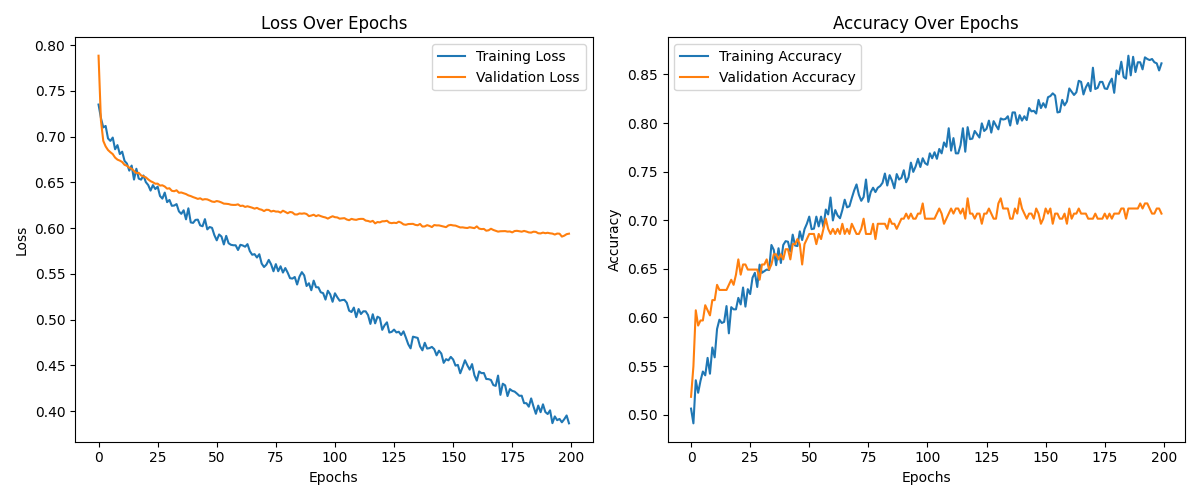
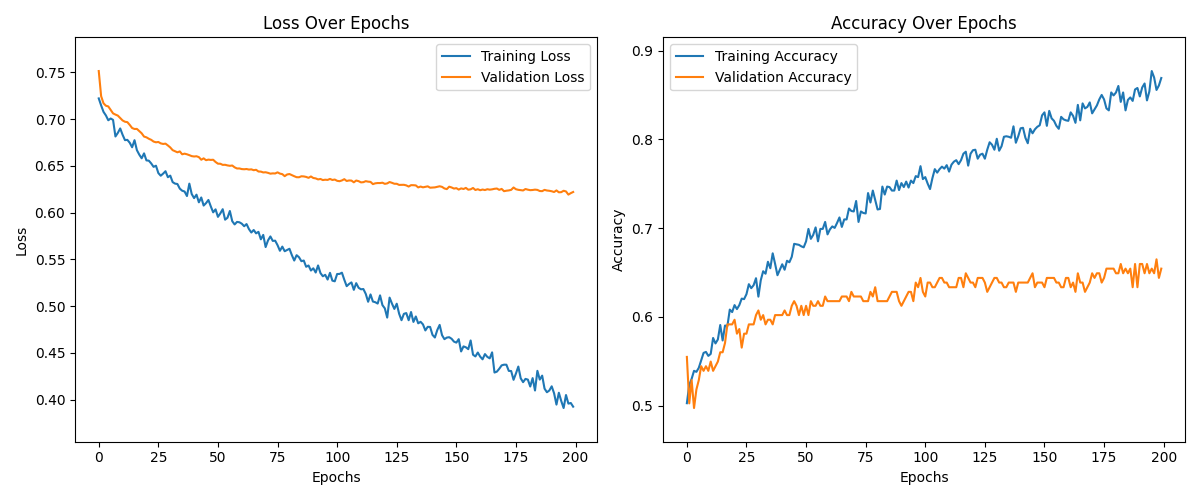
Fix evaluation and augmentation

diff --git a/training/classification_training.py b/training/classification_training.py
@@ -22,20 +22,20 @@ if gpus:
 
 # Hyperparameter configurations
 hyperparams = [
-    {"BACKBONE": "resnet50", "SEGMENT_BACKBONE": "no", "LEARNING_RATE": 0.00001, "OPTIMIZER": "SGD"},
-    {"BACKBONE": "resnet50", "SEGMENT_BACKBONE": "vgg19", "LEARNING_RATE": 0.00001, "OPTIMIZER": "SGD"},
-
-    # {"BACKBONE": "inceptionv3", "SEGMENT_BACKBONE": "no", "LEARNING_RATE": 0.00001, "OPTIMIZER": "SGD"},
-    # {"BACKBONE": "inceptionv3", "SEGMENT_BACKBONE": "vgg19", "LEARNING_RATE": 0.00001, "OPTIMIZER": "SGD"},
+    # {"BACKBONE": "resnet50", "SEGMENT_BACKBONE": "no", "LEARNING_RATE": 0.00002, "OPTIMIZER": "SGD"},
+    # {"BACKBONE": "resnet50", "SEGMENT_BACKBONE": "vgg19", "LEARNING_RATE": 0.00002, "OPTIMIZER": "SGD"},
     #
-    # {"BACKBONE": "mobilenetv2", "SEGMENT_BACKBONE": "no", "LEARNING_RATE": 0.00001, "OPTIMIZER": "SGD"},
-    # {"BACKBONE": "mobilenetv2", "SEGMENT_BACKBONE": "vgg19", "LEARNING_RATE": 0.00001, "OPTIMIZER": "SGD"},
-    #
-    # {"BACKBONE": "densenet121", "SEGMENT_BACKBONE": "no", "LEARNING_RATE": 0.00001, "OPTIMIZER": "SGD"},
-    # {"BACKBONE": "densenet121", "SEGMENT_BACKBONE": "vgg19", "LEARNING_RATE": 0.00001, "OPTIMIZER": "SGD"},
+    # {"BACKBONE": "inceptionv3", "SEGMENT_BACKBONE": "no", "LEARNING_RATE": 0.00002, "OPTIMIZER": "SGD"},
+    # {"BACKBONE": "inceptionv3", "SEGMENT_BACKBONE": "vgg19", "LEARNING_RATE": 0.00002, "OPTIMIZER": "SGD"},
 
-    # {"BACKBONE": "resnext50", "SEGMENT_BACKBONE": "no", "LEARNING_RATE": 0.00001, "OPTIMIZER": "SGD"},
-    # {"BACKBONE": "resnext50", "SEGMENT_BACKBONE": "vgg19", "LEARNING_RATE": 0.00001, "OPTIMIZER": "SGD"},
+    {"BACKBONE": "mobilenetv2", "SEGMENT_BACKBONE": "no", "LEARNING_RATE": 0.00002, "OPTIMIZER": "SGD"},
+    {"BACKBONE": "mobilenetv2", "SEGMENT_BACKBONE": "vgg19", "LEARNING_RATE": 0.00002, "OPTIMIZER": "SGD"},
+
+    # {"BACKBONE": "densenet121", "SEGMENT_BACKBONE": "no", "LEARNING_RATE": 0.00002, "OPTIMIZER": "SGD"},
+    # {"BACKBONE": "densenet121", "SEGMENT_BACKBONE": "vgg19", "LEARNING_RATE": 0.00002, "OPTIMIZER": "SGD"},
+    #
+    # {"BACKBONE": "resnext50", "SEGMENT_BACKBONE": "no", "LEARNING_RATE": 0.00002, "OPTIMIZER": "SGD"},
+    # {"BACKBONE": "resnext50", "SEGMENT_BACKBONE": "vgg19", "LEARNING_RATE": 0.00002, "OPTIMIZER": "SGD"},
 ]
 
 # Dataset loading and preprocessing
@@ -123,9 +123,9 @@ for config in hyperparams:
     OPTIMIZER_NAME = config["OPTIMIZER"]
 
     if SEGMENT_BACKBONE == "no":
-        DATASET_PATH = ["../clean_dataset"]
+        DATASET_PATH = ["../clean_datasetv2"]
     else:
-        DATASET_PATH = [f"../masked_dataset/{SEGMENT_BACKBONE}"]
+        DATASET_PATH = [f"../masked_datasetv2/{SEGMENT_BACKBONE}"]
 
     model_base, preprocess_input = Classifiers.get(BACKBONE)
     train_images, train_labels, val_images, val_labels, test_images, test_labels = load_and_preprocess_data(DATASET_PATH, SEGMENT_BACKBONE, preprocess_input)
@@ -161,9 +161,9 @@ for config in hyperparams:
 
     # Replace dot with underscore in learning rate or use scientific notation
     lr_formatted = f"{LEARNING_RATE:.0e}".replace("-", "neg")  # Scientific notation, e.g., "1eneg4" for 0.0001
-    model_name = f"300_{BACKBONE}_{SEGMENT_BACKBONE}_lr{lr_formatted}_{OPTIMIZER_NAME}.h5"
-    model_name_val_loss = f"300_best_val_loss_{BACKBONE}_{SEGMENT_BACKBONE}_lr{lr_formatted}_{OPTIMIZER_NAME}.h5"
-    plot_name = f"plot/300_{BACKBONE}_{SEGMENT_BACKBONE}_lr{lr_formatted}_{OPTIMIZER_NAME}.png"
+    model_name = f"{BACKBONE}_{SEGMENT_BACKBONE}_lr{lr_formatted}_{OPTIMIZER_NAME}v2.h5"
+    model_name_val_loss = f"best_val_loss_{BACKBONE}_{SEGMENT_BACKBONE}_lr{lr_formatted}_{OPTIMIZER_NAME}v2.h5"
+    plot_name = f"plot/{BACKBONE}_{SEGMENT_BACKBONE}_lr{lr_formatted}_{OPTIMIZER_NAME}v2.png"
 
     # Callback to save the best model based on validation loss
     checkpoint_callback_loss = ModelCheckpoint(
@@ -179,7 +179,7 @@ for config in hyperparams:
         x=train_images,
         y=train_labels,
         batch_size=16,
-        epochs=300,
+        epochs=200,
         validation_data=(val_images, val_labels),
         callbacks=[checkpoint_callback_loss],
     )

diff --git a/training/helper/clean_dataset_class.py b/training/helper/clean_dataset_class.py
@@ -1,0 +1,54 @@
+import os
+import shutil
+
+def organize_files(target_folder, folders_to_check, folder_a, folder_b):
+    """
+    Organize files by checking if they exist in the folders to check and moving them
+    to either folder A (if they exist in the folders to check) or folder B (if they don't).
+
+    Args:
+        target_folder (str): Path to the folder where files will be checked.
+        folders_to_check (list): List of folder paths to verify the existence of files.
+        folder_a (str): Path to folder A where existing files will be moved.
+        folder_b (str): Path to folder B where non-existing files will be moved.
+    """
+    # Create folders A and B if they don't exist
+    os.makedirs(folder_a, exist_ok=True)
+    os.makedirs(folder_b, exist_ok=True)
+
+    # Gather all normalized filenames from folders_to_check
+    reference_files = set()
+    for folder in folders_to_check:
+        for filename in os.listdir(folder):
+            file_path = os.path.join(folder, filename)
+            if os.path.isfile(file_path):
+                normalized_filename = filename.split("\\")[-1].replace(" ", "_").replace("(", "").replace(")", "").lower()
+                reference_files.add(normalized_filename)
+
+    # Check files in the target folder
+    for filename in os.listdir(target_folder):
+        file_path = os.path.join(target_folder, filename)
+
+        if os.path.isfile(file_path):
+            normalized_filename = filename.split("\\")[-1].replace(" ", "_").replace("(", "").replace(")", "").lower()
+
+            # Move the file to folder A or B based on its existence in the reference set
+            if normalized_filename in reference_files:
+                shutil.move(file_path, os.path.join(folder_a, normalized_filename))
+                print(f"Moved {filename} to {folder_a}")
+            else:
+                shutil.move(file_path, os.path.join(folder_b, normalized_filename))
+                print(f"Moved {filename} to {folder_b}")
+
+# Example usage
+if __name__ == "__main__":
+    target_folder = "../../clean_dataset-copy/Normal"  # Replace with the path to the target folder
+
+    folders_to_check = ["../../dmft_dataset/Missing",
+                        "../../dmft_dataset/Filling",
+                        "../../dmft_dataset/Decay"]
+
+    folder_a = "../../clean_datasetv2/Karies"  # Replace with the path to folder A
+    folder_b = "../../clean_datasetv2/Normal"  # Replace with the path to folder B
+
+    organize_files(target_folder, folders_to_check, folder_a, folder_b)

diff --git a/training/segmentation_training.py b/training/segmentation_training.py
@@ -76,7 +76,7 @@ file_paths = [
 
 masks = process_json_one_hot(file_paths)
 
-dataset_path = "../dataset_lengkap"
+dataset_path = "../clean_datasetv2"
 
 train_images = []
 
@@ -153,10 +153,10 @@ print("All Masks:", masks.shape)
 train_images, temp_images, train_masks, temp_masks = train_test_split(images, masks, test_size=0.3, random_state=42)
 val_images, test_images, val_masks, test_masks = train_test_split(temp_images, temp_masks, test_size=0.5, random_state=42)
 
-# # Augment Training Images
-# from helper.augment_functions import horizontal_flip
-#
-# train_images, train_masks = horizontal_flip(train_images, train_masks)
+# Augment Training Images
+from helper.augment_functions import rotate_180
+
+train_images, train_masks = rotate_180(train_images, train_masks)
 
 # Check Data Shape
 print("Train Images", train_images.shape)
@@ -167,7 +167,7 @@ print("Test Images", test_images.shape)
 print("Test Masks:", test_masks.shape)
 
 # Initialize Backbone
-BACKBONE = 'mobilenetv2'
+BACKBONE = 'vgg19'
 preprocess_input = sm.get_preprocessing(BACKBONE)
 
 # Preprocess input
@@ -177,23 +177,23 @@ val_images = preprocess_input(val_images)
 # Define model
 model = sm.Unet(BACKBONE, classes=2, encoder_weights='imagenet', activation='softmax')
 model.compile(
-    optimizer=Adam(learning_rate=0.0001),
+    optimizer=Adam(learning_rate=0.00001),
     loss=sm.losses.bce_jaccard_loss,
     metrics=[sm.metrics.iou_score],
 )
 
 # Directory to save the model checkpoints
-if not os.path.exists(f"h5_models/checkpoints/unet_{BACKBONE}"):
-        os.makedirs(f"h5_models/checkpoints/unet_{BACKBONE}")
+if not os.path.exists(f"h5_models/checkpoints/unet_{BACKBONE}_aug"):
+        os.makedirs(f"h5_models/checkpoints/unet_{BACKBONE}_aug")
 
-checkpoint_dir = f'h5_models/checkpoints/unet_{BACKBONE}'
+checkpoint_dir = f'h5_models/checkpoints/unet_{BACKBONE}_aug'
 
 # Callback to save the model every 10 epochs
 checkpoint_callback = ModelCheckpoint(
-    filepath=os.path.join(checkpoint_dir, f'epoch_{{epoch:02d}}.h5'),
+    filepath=os.path.join(checkpoint_dir, f'epoch_{{epoch:02d}}_lr1eneg5.h5'),
     save_freq='epoch',
     save_best_only=False,
-    period=10  # Save every 10 epochs
+    period=100  # Save every 100 epochs
 )
 
 # Training parameters

diff --git a/training/evaluate.py b/training/evaluate.py
@@ -6,7 +6,7 @@ import numpy as np
 import tensorflow as tf
 from sklearn.model_selection import train_test_split
 import segmentation_models as sm
-from helper_function import rle_to_mask
+from helper.helper_function import rle_to_mask
 
 # Set GPU Memory Growth
 gpus = tf.config.experimental.list_physical_devices('GPU')
@@ -53,7 +53,7 @@ file_paths = [
 masks = process_json_one_hot(file_paths)
 
 # Load dataset images
-dataset_path = "../dataset_lengkap"
+dataset_path = "../clean_datasetv2"
 train_images = []
 for subfolder_name in ["Normal", "Karies"]:
     subfolder_path = os.path.join(dataset_path, subfolder_name)
@@ -105,15 +105,20 @@ train_images, temp_images, train_masks, temp_masks = train_test_split(
 val_images, test_images, val_masks, test_masks = train_test_split(
     temp_images, temp_masks, test_size=0.5, random_state=42)
 
+# Augment Training Images
+from helper.augment_functions import rotate_180
+
+train_images, train_masks = rotate_180(train_images, train_masks)
+
 # Preprocess input
-BACKBONE = 'mobilenetv2'
+BACKBONE = 'vgg19'
 preprocess_input = sm.get_preprocessing(BACKBONE)
 train_images = preprocess_input(train_images)
 val_images = preprocess_input(val_images)
 test_images = preprocess_input(test_images)
 
 # Load the trained model
-model = tf.keras.models.load_model(f'h5_models/checkpoints/unet_{BACKBONE}/epoch_100.h5', compile=False)
+model = tf.keras.models.load_model(f'h5_models/checkpoints/unet_{BACKBONE}_aug/epoch_100.h5', compile=False)
 
 # Evaluate predictions
 # Function to calculate Jaccard loss

diff --git a/training/evaluate_class.py b/training/evaluate_class.py
@@ -10,7 +10,7 @@ import glob
 from tabulate import tabulate
 
 # Parameters
-BACKBONES = ["densenet121", "resnet50", "mobilenetv2", "inceptionv3", "resnext50"]  # Add more backbones as needed
+BACKBONES = ["mobilenetv2"]  # Add more backbones as needed
 SEGMENT_BACKBONES = ["no", "vgg19"]  # Add more segmentation backbones as needed
 RANDOM_STATE = 42  # Consistent random state
 
@@ -23,8 +23,8 @@ for backbone in BACKBONES:
         print(f"Processing Backbone: {backbone}, Segmentation Backbone: {seg_backbone}...")
 
         # Paths
-        DATASET_PATH = "../clean_dataset" if seg_backbone == "no" else f"../masked_dataset/{seg_backbone}"
-        MODEL_PATH = f"h5_models/classification/{backbone}/best_val_loss_{backbone}_{seg_backbone}_lr5eneg05_SGD.h5"
+        DATASET_PATH = "../clean_datasetv2" if seg_backbone == "no" else f"../masked_datasetv2/{seg_backbone}"
+        MODEL_PATH = f"h5_models/classification/{backbone}/best_val_loss_{backbone}_{seg_backbone}_lr2eneg05_SGDv2.h5"
 
         # Load pretrained model for preprocessing
         try:

diff --git a/training/helper/augment_functions.py b/training/helper/augment_functions.py
@@ -24,13 +24,16 @@ def rotate_180(images, masks=None):
     """
     # Apply 180-degree rotation to all images and masks
     rotated_images = [cv2.rotate(image, cv2.ROTATE_180) for image in images]
-    # rotated_masks = [cv2.rotate(mask, cv2.ROTATE_180) for mask in masks] if masks is not None else None
+    rotated_masks = [cv2.rotate(mask, cv2.ROTATE_180) for mask in masks] if masks is not None else None
 
     # Combine original and rotated data
     augmented_images = np.concatenate((images, rotated_images), axis=0)
-    # augmented_masks = np.concatenate((masks, rotated_masks), axis=0) if masks is not None else None
+    augmented_masks = np.concatenate((masks, rotated_masks), axis=0) if masks is not None else None
 
-    return augmented_images
+    if masks is not None:
+        return augmented_images, augmented_masks
+    elif masks is None:
+        return augmented_images
 
 def plot_augmentation_examples(original_images, original_masks, augmented_images, augmented_masks, num_examples=3):
     """

diff --git a/training/segment_images.py b/training/segment_images.py
@@ -21,8 +21,8 @@ MODEL_PATH = f"h5_models/checkpoints/unet_{BACKBONE}/epoch_100.h5"
 IMAGE_INPUT_SIZE = (224, 224)
 
 # Paths
-DATASET_PATH = "../augmented_dataset"
-OUTPUT_PATH = f"../augmented_masked_dataset/{BACKBONE}"
+DATASET_PATH = "../clean_datasetv2"
+OUTPUT_PATH = f"../masked_datasetv2/{BACKBONE}"
 
 # Load trained model
 model = tf.keras.models.load_model(f'h5_models/checkpoints/unet_{BACKBONE}/epoch_100.h5', compile=False)

diff --git a/training/helper/augment_dataset.py b/training/helper/augment_dataset.py
@@ -48,8 +48,8 @@ def augment_and_save_images(dataset_path, output_path):
 
 
 # Paths
-DATASET_PATH = "../../clean_dataset"
-OUTPUT_PATH = "../../augmented_dataset"
+DATASET_PATH = "../../clean_datasetv2"
+OUTPUT_PATH = "../../augmented_datasetv2"
 
 # Run the augmentation and saving process
 augment_and_save_images(DATASET_PATH, OUTPUT_PATH)
